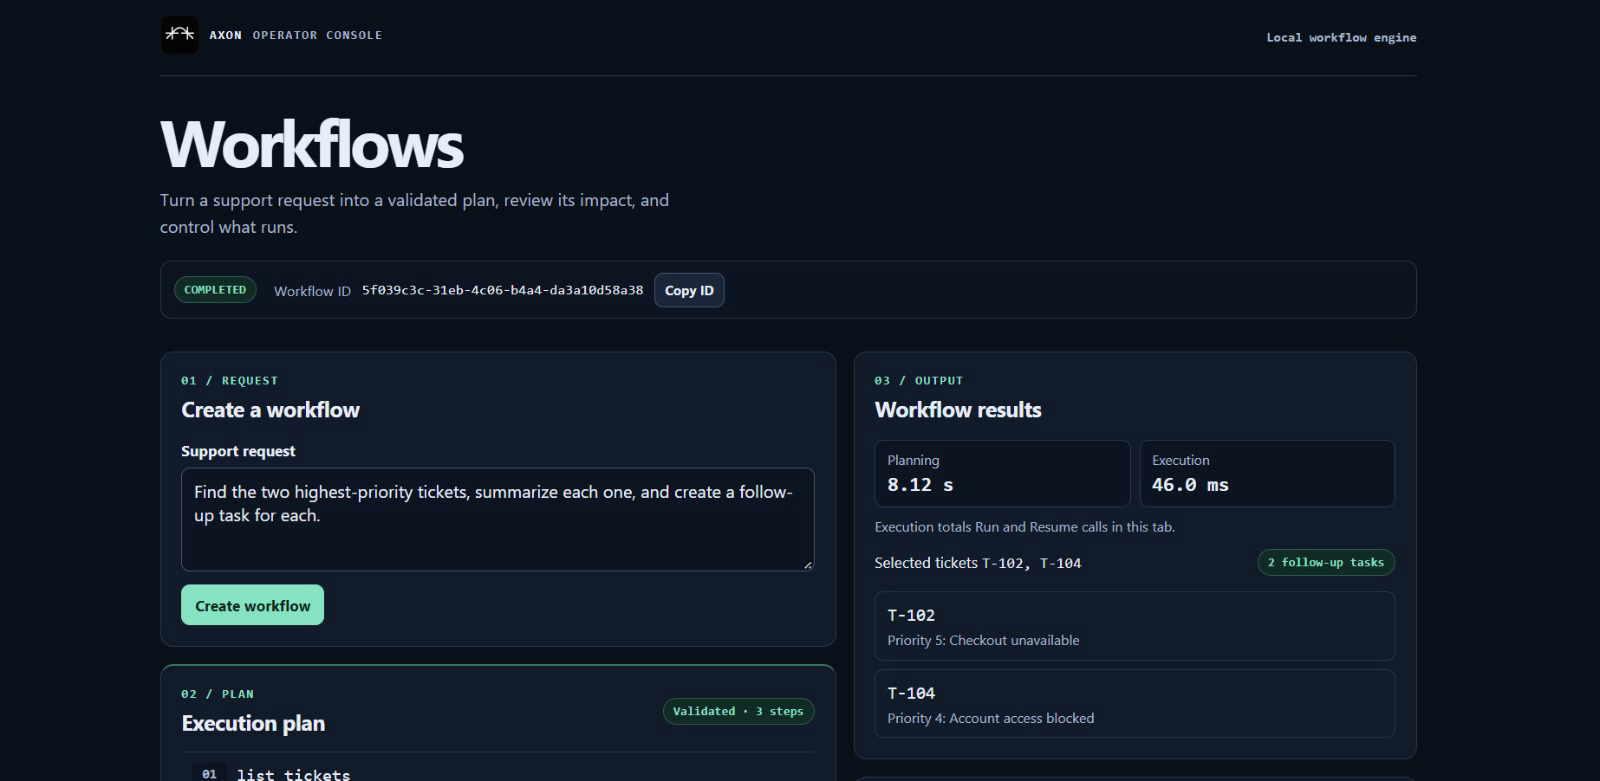
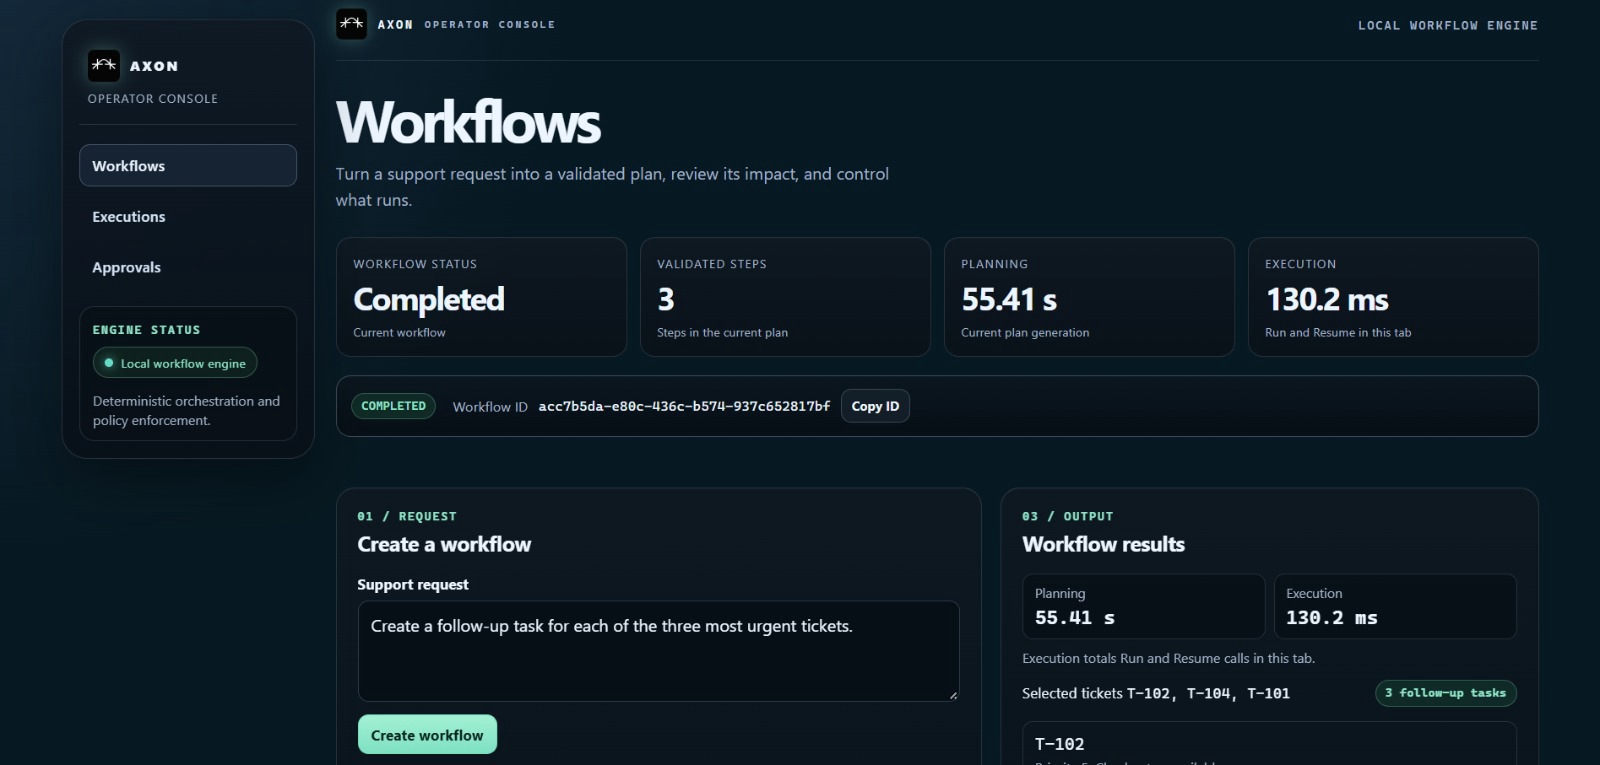
Update README and showcase the Axon dashboard

diff --git a/README.md b/README.md
@@ -2,26 +2,52 @@
 
 **A local-first AI workflow engine with validated plans, operator approval, and recoverable execution.**
 
-Axon turns a natural-language support request into a structured workflow. A local Ollama model proposes the plan. FastAPI validates it, applies execution policies, and runs registered tools. PostgreSQL stores workflow state, step results, and event history.
+Axon turns a natural-language support request into a structured workflow. A local Ollama model identifies the requested action and ticket limit. Axon builds and validates the plan, then runs registered tools under execution policies. PostgreSQL stores workflow state, step results, and event history.
 
 [Try the demo](#demo) · [Run locally](#run-locally) · [Architecture](#architecture) · [Reliability and evaluation](#reliability-and-evaluation)
 
-![Axon console showing a completed workflow and two follow-up tasks for T-102 and T-104](docs/screenshots/axon-completed-workflow.png)
+![Axon dashboard with the Workflows, Executions, and Approvals menu and a completed workflow showing three follow-up tasks](docs/screenshots/axon-completed-workflow.png)
 
 ## Demo
 
-> Find the two highest-priority tickets, summarize each one, and create a follow-up task for each.
+> Create a follow-up task for each of the three most urgent tickets.
 
-1. Open the dashboard and select **Create workflow** with the sample request.
+1. Open **Workflows**, paste the sample request, and select **Create workflow**.
 2. Select **Preview plan** to inspect the validated tool order, dependencies, and the step that writes data.
-3. Select **Run workflow**. Axon lists and summarizes the tickets, then pauses before writing the follow-up tasks.
-4. Enter the configured operator token and select **Approve**, then **Resume workflow**. The demo run completed with one follow-up task each for **T-102** and **T-104**. On a separate workflow, **Reject** cancels the proposed action.
+3. Select **Run workflow**. Axon lists and summarizes the tickets and pauses before writing the follow-up tasks.
+4. Open **Approvals** and select the waiting workflow to open its decision panel. Enter the operator token from `.env` and select **Approve**.
+5. Select **Resume workflow**. Check **Workflow results** for one follow-up task each for **T-102**, **T-104**, and **T-101**, and **Event history** for the `COMPLETED` status.
 
-| Validated execution plan | Operator decision |
-| --- | --- |
-| ![Three validated steps for listing tickets, summarizing them, and creating follow-up tasks](docs/screenshots/axon-validated-plan.png) | ![Approval panel showing two proposed tasks for tickets T-102 and T-104](docs/screenshots/axon-operator-approval.png) |
+**Executions** lists saved workflows. Select a row to reopen the workflow and its event history. To try the rejection path, run a separate workflow to approval and select **Reject**. It ends in `CANCELLED` with no follow-up tasks.
 
-Screenshots show a real Codespaces run with the built-in support-ticket scenario. That run displayed **8.12 s** of planning and **46.0 ms** of execution. The execution tile totals the backend timings for Run and Resume in the current tab and excludes time spent waiting for the operator.
+<details>
+<summary>Validated execution plan</summary>
+
+![Validated plan with list_tickets limited to three results, summarize_tickets, and create_followup_tasks marked Writes data](docs/screenshots/axon-validated-plan.png)
+
+</details>
+
+<details>
+<summary>Approval queue and operator decision</summary>
+
+The queue and the decision panel show a separate waiting workflow for the same request.
+
+![Approvals lists workflows waiting for an operator decision](docs/screenshots/axon-approvals.png)
+
+![Operator decision panel proposing one follow-up task per ticket for T-102, T-104, and T-101](docs/screenshots/axon-operator-approval.png)
+
+</details>
+
+<details>
+<summary>Saved executions and event history</summary>
+
+![Executions lists saved workflows by date and displays their statuses](docs/screenshots/axon-executions.png)
+
+![Completed workflow showing three ticket results, the validated plan, and status changes through COMPLETED](docs/screenshots/axon-event-history.png)
+
+</details>
+
+The execution tile totals the backend timings for Run and Resume in the current tab and excludes time spent waiting for the operator.
 
 ## Run locally
 
@@ -65,7 +91,7 @@ flowchart TD
 
 | Component | Responsibility |
 | --- | --- |
-| React and TypeScript | Request entry, validated plan preview, approval, output, and event history |
+| React and TypeScript | Request entry, validated plan preview, execution history, approval queue, and workflow results |
 | FastAPI | Workflow API, asynchronous browser plan previews, and operator decisions |
 | Ollama | Local generation of structured plans for supported requests |
 | Validation and execution | Schema checks, dependency order, tool policies, retries, and resume from committed steps |
@@ -78,16 +104,29 @@ The browser starts a preview with `POST /workflows/{id}/plan-job`, receives an a
 
 | Check | Observed result |
 | --- | --- |
-| Plan validation | Six malformed plans rejected before any tool call |
+| Invalid model responses | Six integration cases cover malformed JSON, truncated responses, and schema violations. The workflow stays pending and no tool runs |
 | Crash recovery | The execution process exited during task creation. Resume reused the first two committed steps |
 | Transient and permanent failures | Transient retries used 1, 2, and 4 second delays. A permanent failure stopped after one attempt |
-| Duplicate run | Repeating a completed run returned HTTP 409 and the workflow still had two task records |
+| Concurrent resume | PostgreSQL integration tests confirm one task-creation call, one task per expected ticket, and one completion event |
+| Duplicate run | Repeating a completed demo run returned HTTP 409 and left the same two task records |
+| Planning diagnostics | Both planning endpoints log `planning.failed` with the workflow ID and an error code for timeout, connection failure, or invalid model response |
 | Slow browser preview | With a controlled 65-second delay before planning, the initial response returned HTTP 202, polling continued past one minute, and the plan appeared |
-| Planner evaluation | 12 of 12 regression cases and 6 of 6 holdout cases passed |
-| Execution evaluation | 8 of 8 regression checks and 3 of 3 holdout checks passed |
+| Latest holdout rerun | 6 of 6 plans passed, including 3 of 3 expected rejections. All 3 executable cases selected the correct tools and passed end to end |
 | CI | PostgreSQL integration tests run in GitHub Actions |
 
-The evaluation uses fixed expected outcomes for supported requests, clarification, and unsupported actions. The counts describe the supplied test cases. The planner and holdout datasets are in [evals/](evals/), and [the runner](scripts/run_eval.py) records results and plan latency.
+The [evaluation datasets](evals/) define expected outcomes for supported requests, clarification, and unsupported actions. The archived reports include a regression run with 12 of 12 plans and 8 of 8 execution checks passing. The [runner](scripts/run_eval.py) reports tool selection, full plan correctness, and execution separately. Its end-to-end execution rate uses all cases expected to run, including cases blocked at planning.
+
+Run the holdout evaluation against a running local stack.
+
+```bash
+python3 scripts/run_eval.py \
+  --base-url http://127.0.0.1:8002 \
+  --dataset evals/planner_holdout.jsonl \
+  --output /tmp/axon-holdout.json \
+  --fail-on-regression
+```
+
+The report includes per-case results, HTTP statuses, and plan latency. The command exits with status 1 if any case fails.
 
 ## Scope
 
